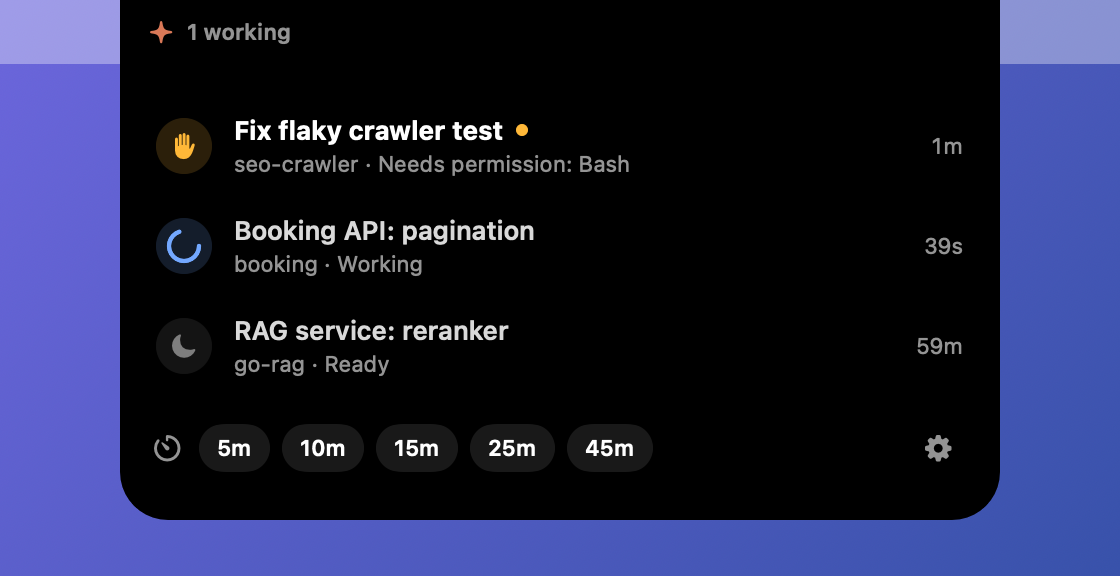
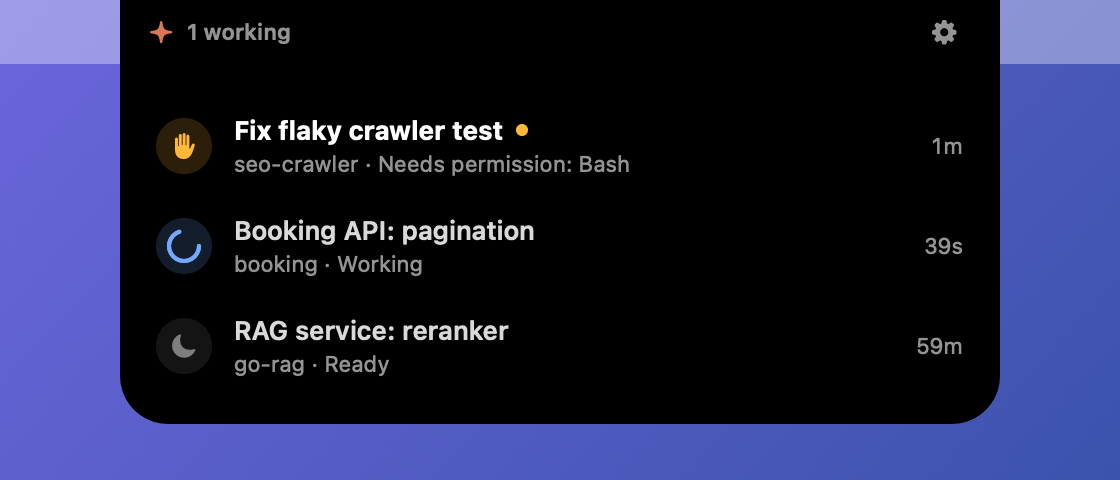
Make the timer optional and off by default
NordvaNotch is about Claude Code sessions first. Settings → Timer turns
the countdown on; off, the list has no timer row, the menu has no Timer
item and the settings button moves next to the notch.

diff --git a/Sources/NordvaNotch/IslandView.swift b/Sources/NordvaNotch/IslandView.swift
@@ -261,6 +261,14 @@ private struct ListView: View {
                         .font(.system(size: 11))
                         .foregroundStyle(Palette.secondary)
                 }
+                Button(action: actions.openSettings) {
+                    Image(systemName: "gearshape.fill")
+                        .font(.system(size: 12))
+                        .frame(width: 28, height: 24)
+                        .contentShape(Rectangle())
+                }
+                .buttonStyle(HoverButtonStyle())
+                .help("Settings")
             }
             Spacer().frame(height: IslandLayout.listHeader + IslandLayout.listPadding)
             if model.rows.isEmpty {
@@ -278,10 +286,14 @@ private struct ListView: View {
                 }
                 .padding(.horizontal, 8)
             }
-            footer
-                .frame(height: IslandLayout.listFooter)
-                .padding(.horizontal, 16)
-            Spacer().frame(height: IslandLayout.listPadding)
+            if model.timerEnabled {
+                footer
+                    .frame(height: IslandLayout.listFooter)
+                    .padding(.horizontal, 16)
+                Spacer().frame(height: IslandLayout.listPadding)
+            } else {
+                Spacer().frame(height: IslandLayout.listEnd)
+            }
         }
     }
 
@@ -305,14 +317,6 @@ private struct ListView: View {
                 }
             }
             Spacer(minLength: 4)
-            Button(action: actions.openSettings) {
-                Image(systemName: "gearshape.fill")
-                    .font(.system(size: 13))
-                    .frame(width: 30, height: 26)
-                    .contentShape(Rectangle())
-            }
-            .buttonStyle(HoverButtonStyle())
-            .help("Settings")
         }
     }
 }

diff --git a/Sources/NordvaNotchCore/IslandGeometry.swift b/Sources/NordvaNotchCore/IslandGeometry.swift
@@ -99,8 +99,8 @@ public enum IslandMode: Equatable, Sendable {
     case compact(timer: Bool)
     /// One event, expanded for a few seconds.
     case banner
-    /// The full list, opened by a click.
-    case list(rows: Int)
+    /// The full list, opened by a click; the timer row at the bottom only when the timer is on.
+    case list(rows: Int, timer: Bool)
 }
 
 public enum IslandLayout {
@@ -114,6 +114,9 @@ public enum IslandLayout {
     public static let maxVisibleRows = 6
     public static let listFooter = 52.0
     public static let listPadding = 10.0
+    /// Below the last row when there is no timer row; a little more than the padding,
+    /// so a highlighted row stays clear of the round corners.
+    public static let listEnd = 14.0
     /// The panel is this big and never moves; only the shape inside it animates.
     public static let canvasWidth = 560.0
     public static let canvasHeight = 520.0
@@ -136,9 +139,10 @@ public enum IslandLayout {
             return Size(width: notch + wingWidth(timer: timer) * 2, height: anchor.height)
         case .banner:
             return Size(width: max(bannerWidth, notch + wing * 2), height: anchor.height + bannerBody)
-        case .list(let rows):
+        case .list(let rows, let timer):
             let visible = Double(min(max(rows, 1), maxVisibleRows))
-            let body = listHeader + visible * rowHeight + listFooter + listPadding * 2
+            let bottom = timer ? listFooter + listPadding : listEnd
+            let body = listHeader + listPadding + visible * rowHeight + bottom
             return Size(width: max(listWidth, notch + wing * 2), height: anchor.height + body)
         }
     }

diff --git a/Sources/NordvaNotch/IslandController.swift b/Sources/NordvaNotch/IslandController.swift
@@ -125,6 +125,11 @@ final class IslandController {
 
     func applyPreferences() {
         model.showReply = prefs.showReply
+        model.timerEnabled = prefs.timerEnabled
+        if !prefs.timerEnabled {
+            if model.timerRunning { stopTimer() }
+            model.timerDone = false
+        }
         // Screenshots, recordings and screen sharing leave out windows with sharingType .none.
         panel.sharingType = prefs.hideFromScreenSharing ? .none : .readOnly
         refreshMode()
@@ -288,7 +293,7 @@ final class IslandController {
     private func refreshMode() {
         let mode: IslandMode
         if listOpen {
-            mode = .list(rows: model.rows.count)
+            mode = .list(rows: model.rows.count, timer: prefs.timerEnabled)
         } else if model.banner != nil {
             mode = .banner
         } else if (prefs.compactIndicators || quietPending) && (model.unseenCount > 0 || model.timerRunning || model.timerDone) {
@@ -399,7 +404,7 @@ final class IslandController {
     }
 
     private func restoreTimer() {
-        guard persistsTimer else { return }
+        guard persistsTimer, prefs.timerEnabled else { return }
         let defaults = UserDefaults.standard
         let end = defaults.double(forKey: "timerEnd")
         guard end > Date().timeIntervalSince1970 else {

diff --git a/Sources/NordvaNotch/Preferences.swift b/Sources/NordvaNotch/Preferences.swift
@@ -29,6 +29,7 @@ final class Preferences: ObservableObject {
     @Published var menuBarIcon: Bool { didSet { save(menuBarIcon, "menuBarIcon") } }
     @Published var hideFromScreenSharing: Bool { didSet { save(hideFromScreenSharing, "hideFromScreenSharing") } }
     @Published var quietDuringCalls: Bool { didSet { save(quietDuringCalls, "quietDuringCalls") } }
+    @Published var timerEnabled: Bool { didSet { save(timerEnabled, "timerEnabled") } }
 
     init() {
         defaults.register(defaults: [
@@ -44,6 +45,7 @@ final class Preferences: ObservableObject {
             "menuBarIcon": true,
             "hideFromScreenSharing": true,
             "quietDuringCalls": true,
+            "timerEnabled": false,
         ])
         placement = Placement(rawValue: defaults.string(forKey: "placement") ?? "") ?? .notch
         popOnDone = defaults.bool(forKey: "popOnDone")
@@ -57,6 +59,7 @@ final class Preferences: ObservableObject {
         menuBarIcon = defaults.bool(forKey: "menuBarIcon")
         hideFromScreenSharing = defaults.bool(forKey: "hideFromScreenSharing")
         quietDuringCalls = defaults.bool(forKey: "quietDuringCalls")
+        timerEnabled = defaults.bool(forKey: "timerEnabled")
     }
 
     /// Seen marks survive restarts, otherwise every finished session would light up again.

diff --git a/Tests/NordvaNotchCoreTests/NamingAndBoardTests.swift b/Tests/NordvaNotchCoreTests/NamingAndBoardTests.swift
@@ -163,9 +163,12 @@ import Testing
         #expect(banner.midX == 756)
         #expect(banner.maxY == 982)
         #expect(banner.height == 32 + IslandLayout.bannerBody)
-        let one = IslandLayout.size(of: .list(rows: 0), anchor: a)
-        let six = IslandLayout.size(of: .list(rows: 6), anchor: a)
-        let twenty = IslandLayout.size(of: .list(rows: 20), anchor: a)
+        let one = IslandLayout.size(of: .list(rows: 0, timer: true), anchor: a)
+        let six = IslandLayout.size(of: .list(rows: 6, timer: true), anchor: a)
+        let twenty = IslandLayout.size(of: .list(rows: 20, timer: true), anchor: a)
+        let noTimer = IslandLayout.size(of: .list(rows: 6, timer: false), anchor: a)
+        #expect(six.height - noTimer.height == IslandLayout.listFooter + IslandLayout.listPadding - IslandLayout.listEnd)
+        #expect(noTimer.width == six.width)
         #expect(six.height - one.height == 5 * IslandLayout.rowHeight)
         #expect(twenty == six)
         #expect(six.height <= IslandLayout.canvasHeight)

diff --git a/Sources/NordvaNotch/SettingsWindow.swift b/Sources/NordvaNotch/SettingsWindow.swift
@@ -114,7 +114,15 @@ private struct SettingsView: View {
             Section("Feedback") {
                 Toggle("Haptic click on the trackpad", isOn: $prefs.haptics)
                 Toggle("Sound for sessions", isOn: $prefs.sessionSound)
+            }
+
+            Section("Timer") {
+                Toggle("Timer", isOn: $prefs.timerEnabled)
+                Text("5 to 45 minute countdowns from the session list and the menu bar. Off keeps the island about Claude Code only.")
+                    .font(.caption)
+                    .foregroundStyle(.secondary)
                 Toggle("Sound when a timer ends", isOn: $prefs.timerSound)
+                    .disabled(!prefs.timerEnabled)
             }
 
             Section("General") {

diff --git a/Sources/NordvaNotch/AppDelegate.swift b/Sources/NordvaNotch/AppDelegate.swift
@@ -100,7 +100,7 @@ final class AppDelegate: NSObject, NSApplicationDelegate, NSMenuDelegate {
             timerMenu.addItem(item)
         }
         timer.submenu = timerMenu
-        menu.addItem(timer)
+        if prefs.timerEnabled || island.timerEnd != nil { menu.addItem(timer) }
 
         let clear = NSMenuItem(title: "Clear Finished Sessions", action: #selector(clearFinished), keyEquivalent: "")
         clear.target = self

diff --git a/Sources/NordvaNotch/IslandModel.swift b/Sources/NordvaNotch/IslandModel.swift
@@ -34,6 +34,8 @@ final class IslandModel: ObservableObject {
     @Published var hovering = false
     @Published var timerEnd: Date?
     @Published var timerMinutes = 0
+    /// The timer is optional and off by default: the island is about Claude Code first.
+    @Published var timerEnabled = false
     /// A timer ended while the island had to stay quiet; cleared once the list is opened.
     @Published var timerDone = false
 

diff --git a/README.md b/README.md
@@ -15,7 +15,7 @@ When you run two or three Claude Code sessions at once (in the terminal or in th
 - **Haptic click.** One click when a session finishes, two when it needs you. The trackpad only plays it while a finger rests on it.
 - **Session list.** Click the notch: sessions that need you first, then new results, then running ones. Click a row to jump to that session: the Claude desktop app opens it directly, a terminal session brings its terminal app forward.
 - **Real session names.** The title from the Claude desktop sidebar (or from `/rename` in the CLI), then the first prompt, then the folder. Claude worktrees show the repository name instead of the random worktree name.
-- **Timer.** 5 to 45 minutes from the list or the menu bar. The countdown sits next to the notch, the end expands the island with a click and a sound.
+- **Optional timer**, off by default (Settings → Timer). 5 to 45 minutes from the list or the menu bar; the countdown sits next to the notch, the end expands the island with a click and a sound.
 - **Quiet during calls.** While a camera or a microphone is in use, nothing expands, clicks or plays a sound on its own. A dot waits instead.
 - **Hidden from screen sharing.** Screenshots, recordings and shared screens leave the island out (on by default).
 - **No notch, no problem.** With the lid closed or on an external display, the island hangs from the middle of the top edge. Events can also follow the display with the pointer.
